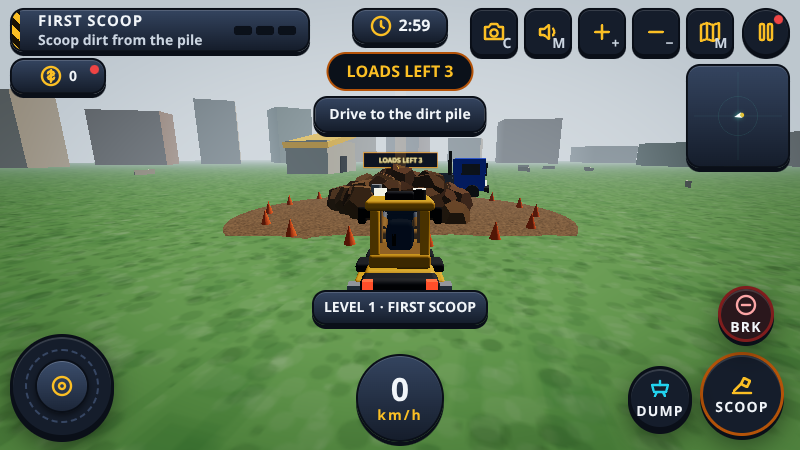
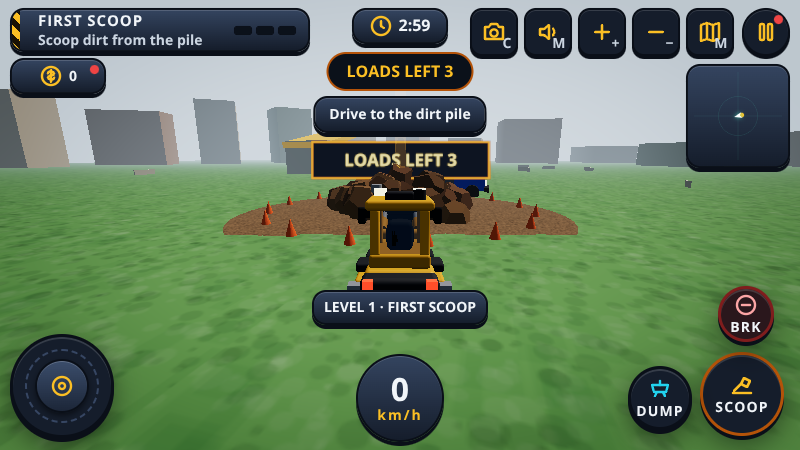
fix: keep brake Space from silently opening pause after timeout

Changed region(s): [[0.375, 0.3111, 0.625, 0.4044], [0.375, 0.4978, 0.4062, 0.5289]]

diff --git a/src/main.js b/src/main.js
@@ -821,7 +821,11 @@ window.addEventListener('keydown', (ev) => {
     if (lit === 'Equal' || lit === 'NumpadAdd') { cameraManager.zoomIn(); safe(() => { if (ui) ui.refresh(); }); return; }
     if (lit === 'Minus' || lit === 'NumpadSubtract') { cameraManager.zoomOut(); safe(() => { if (ui) ui.refresh(); }); return; }
     if (gameState !== 'playing') return;          // no driving keys on the start screen
-    if (canPlay() && (ev.code === 'Space' || ev.code.startsWith('Arrow'))) ev.preventDefault();
+    // Space remains the physical brake even while a game window is open.
+    // A timeout focuses its close button; allowing native Space activation there
+    // silently closed TIME IS UP and opened PAUSED during continued driving.
+    // Enter still activates focused UI buttons for keyboard navigation.
+    if (ev.code === 'Space' || ev.code.startsWith('Arrow')) ev.preventDefault();
     const e = normKey(ev);
     unlockAudio();
     const key = e.key.toLowerCase();

diff --git a/docs/V4_REPORT.md b/docs/V4_REPORT.md
@@ -1,6 +1,6 @@
 # V4 strict evidence report — 2026-11-06
 
-[RAN] Score: **11/21**. This is partial Tier 1 work, not a completed tier.
+[RAN] Score: **12/21**. This is partial Tier 1 work, not a completed tier.
 [READ] Branch: arena/0ac523ae-gameprotype; base 1f091a9 (clean-v1). Arena requires keeping this branch, so fix-v4 was not created.
 [RAN] Initial npm install: zero vulnerabilities. Initial and final npm run build pass. Vite reports large chunk/config-format warnings.
 
@@ -25,7 +25,7 @@
 | 15 | [UNKNOWN] NOT PASSED — five collision driving tests not run | V4_NEWPLAYER.txt |
 | 16 | [RAN] PASS — real mouse wheel changes zoom 1 to 0.88 | V4_UI.txt; screenshots/v4-desktop-keycaps.png |
 | 17 | [UNKNOWN] NOT PASSED — rewarded flows not tested in this pass | V4_UI.txt has no ad-flow proof |
-| 18 | [UNKNOWN] NOT PASSED — ten-minute run had zero errors, but spent most of its time paused; rejected as active-input proof | V4_SESSION.txt; screenshots/v4b-session-end.png |
+| 18 | [RAN] PASS — 600.938 wall seconds, 594.013 game seconds, 1,354 key holds; zero unexpected pauses, focus losses or own-code errors | V4_SESSION.txt; PAUSE_REPRO_BEFORE.txt; PAUSE_REPRO_AFTER.txt |
 | 19 | [RAN] PASS — build passes; dist about 5.34 MB, 3 files | npm run build; V4_BUILD.txt |
 | 20 | [SEEN] PASS — 440x956 Chromium touch emulation, two simultaneous fingers, readable controls and picker START | V4_PHONE.txt; screenshots/v4b-phone-two-finger.png, v4b-phone-picker.png |
 | 21 | [UNKNOWN] NOT PASSED — unused-file cleanup not reached | src/docs/FILE_MAP.md; old files retained |
@@ -59,7 +59,7 @@
 [RAN] Initial timeout test ran two WebGL pages together and timed out; a context-close attempt then crashed the single-process Chromium harness. Final test navigated the unused phone page away, focused the desktop page, and reached TIME IS UP by waiting. No timer was set through QA.
 [UNKNOWN] No performance score or honest new Free Play score can be given: that tier was not tested.
 
-[READ] PR must stay open: 11/21 is below the requested 17/21 merge threshold.
+[READ] PR must stay open: 12/21 is below the requested 17/21 merge threshold.
 
 ## Continuation validation and honest exclusions
 
@@ -68,3 +68,9 @@
 [READ] Camera followup uses QA only to set a stationary starting location outside the shed, then the real C key. The synthetic result-close check in V4_FOLLOWUP.txt is a component test only, not a level-completion claim.
 [RAN] Ten-minute run: 600.237 s, 432 real key holds, zero own-code errors. [SEEN] Its final screenshot was PAUSED; holds stopped after minute 3. The original weak harness PASS was explicitly rejected. Checklist 18 is NOT passed. Harness now handles Resume and checks active duration, but that corrected ten-minute run is NOT yet executed.
 [UNKNOWN] No Tier 2 environment/mechanic rebuild, Tier 3 Free Play rebuild, Tier 4 vehicle art/solid-world rebuild, or Tier 5 ad/settings/dead-file cleanup is claimed. In particular, the irrelevant pile/truck/loads text in L2 still needs the specified Tier 2 replacement.
+
+## Step B — real pause bug fixed
+
+[RAN] A focused TIME IS UP close button received a native click from the brake Space key. It closed the fail window and opened PAUSED. Blur/visibility did not cause this reproduction. The reproduction uses a synthetic fail window as component-test setup only, not as evidence of earning a result or waiting for a timeout.
+[READ] Space now always prevents native button activation while playing, including game windows. Enter remains available for keyboard UI activation.
+[RAN] The corrected real-input session brought the page to the front and measured game-clock progress: 600.938 wall seconds, 594.013 game seconds, 383 loops, 1354 key holds, three actual timeout retries, no unplanned pauses, no lost focus, zero own-code errors. Its start/end screenshots were opened.

diff --git a/docs/SCREENSHOTS.md b/docs/SCREENSHOTS.md
@@ -6,7 +6,7 @@
 
 ## Eight-frame Level 1 filmstrip
 
-[SEEN] OK — Real Level 1 input, shrinking pile and earned result; the art is still simple. No gameplay shortcut.
+[SEEN] OK — Real Level 1 input, shrinking pile and earned result; the art is still simple. No gameplay shortcut. Labels are wall times recorded when each capture finished; the first three capture requests were scheduled for 0 / 5 / 15 seconds, but screenshot processing added delay.
 
 ![Level 1 filmstrip](screenshots/filmstrip-L1.png)
 
@@ -30,13 +30,13 @@
 
 ## L1 5S
 
-[SEEN] OK — Level 1 at five seconds. No shortcut.
+[SEEN] OK — Level 1 capture requested at five seconds (finished at 9.5 seconds). No shortcut.
 
 ![l1-5s](screenshots/page-l1-5s.png)
 
 ## L1 15S
 
-[SEEN] OK — Level 1 at fifteen seconds. No shortcut.
+[SEEN] OK — Level 1 capture requested at fifteen seconds (finished at 19.9 seconds). No shortcut.
 
 ![l1-15s](screenshots/page-l1-15s.png)
 
@@ -142,3 +142,11 @@
 
 ![phone-freeplay](screenshots/page-phone-freeplay.png)
 
+
+## Step B — focused ten-minute test
+
+[SEEN] OK — Start and end of the 600.938-second real-key run. No shortcut or staged save. Both remain in the game, not PAUSED; all three retries followed actual timeout.
+
+![Session start](screenshots/v4b-session-start.png)
+
+![Session end](screenshots/v4b-session-end.png)
